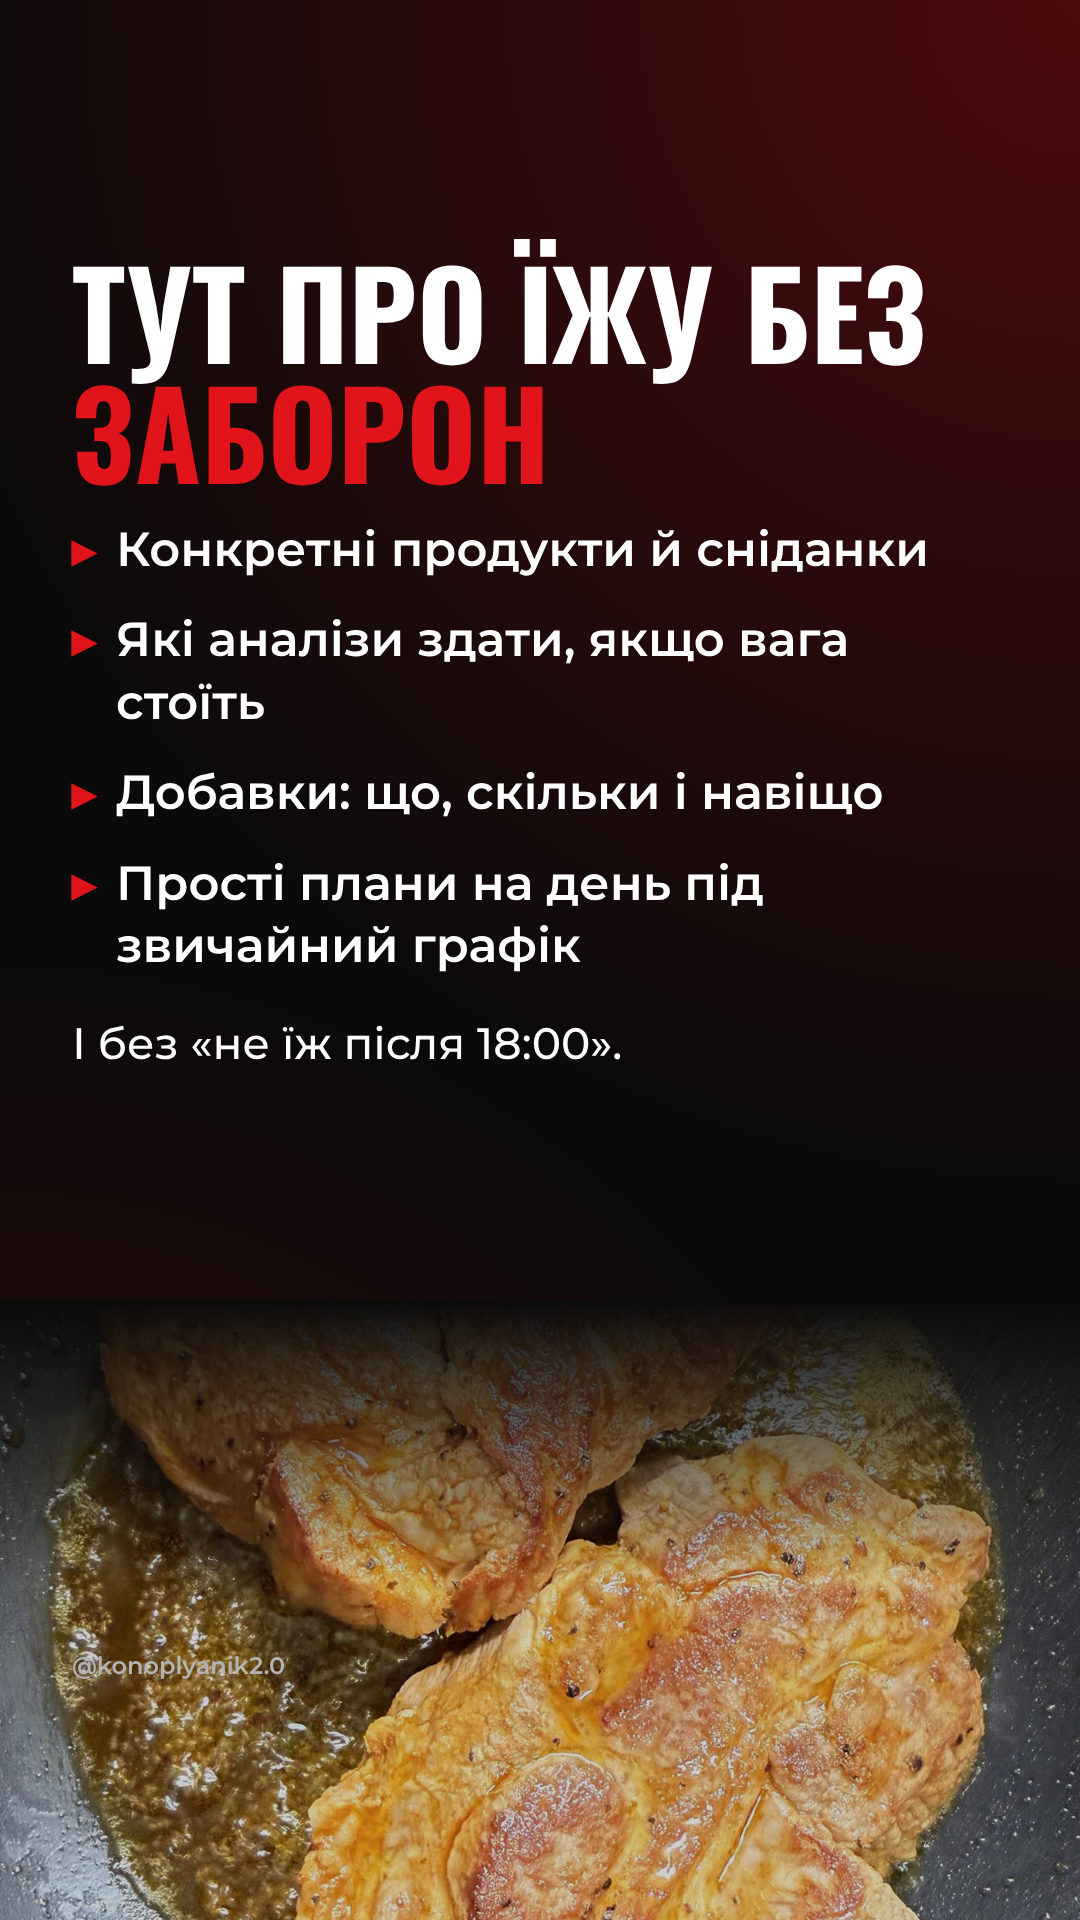
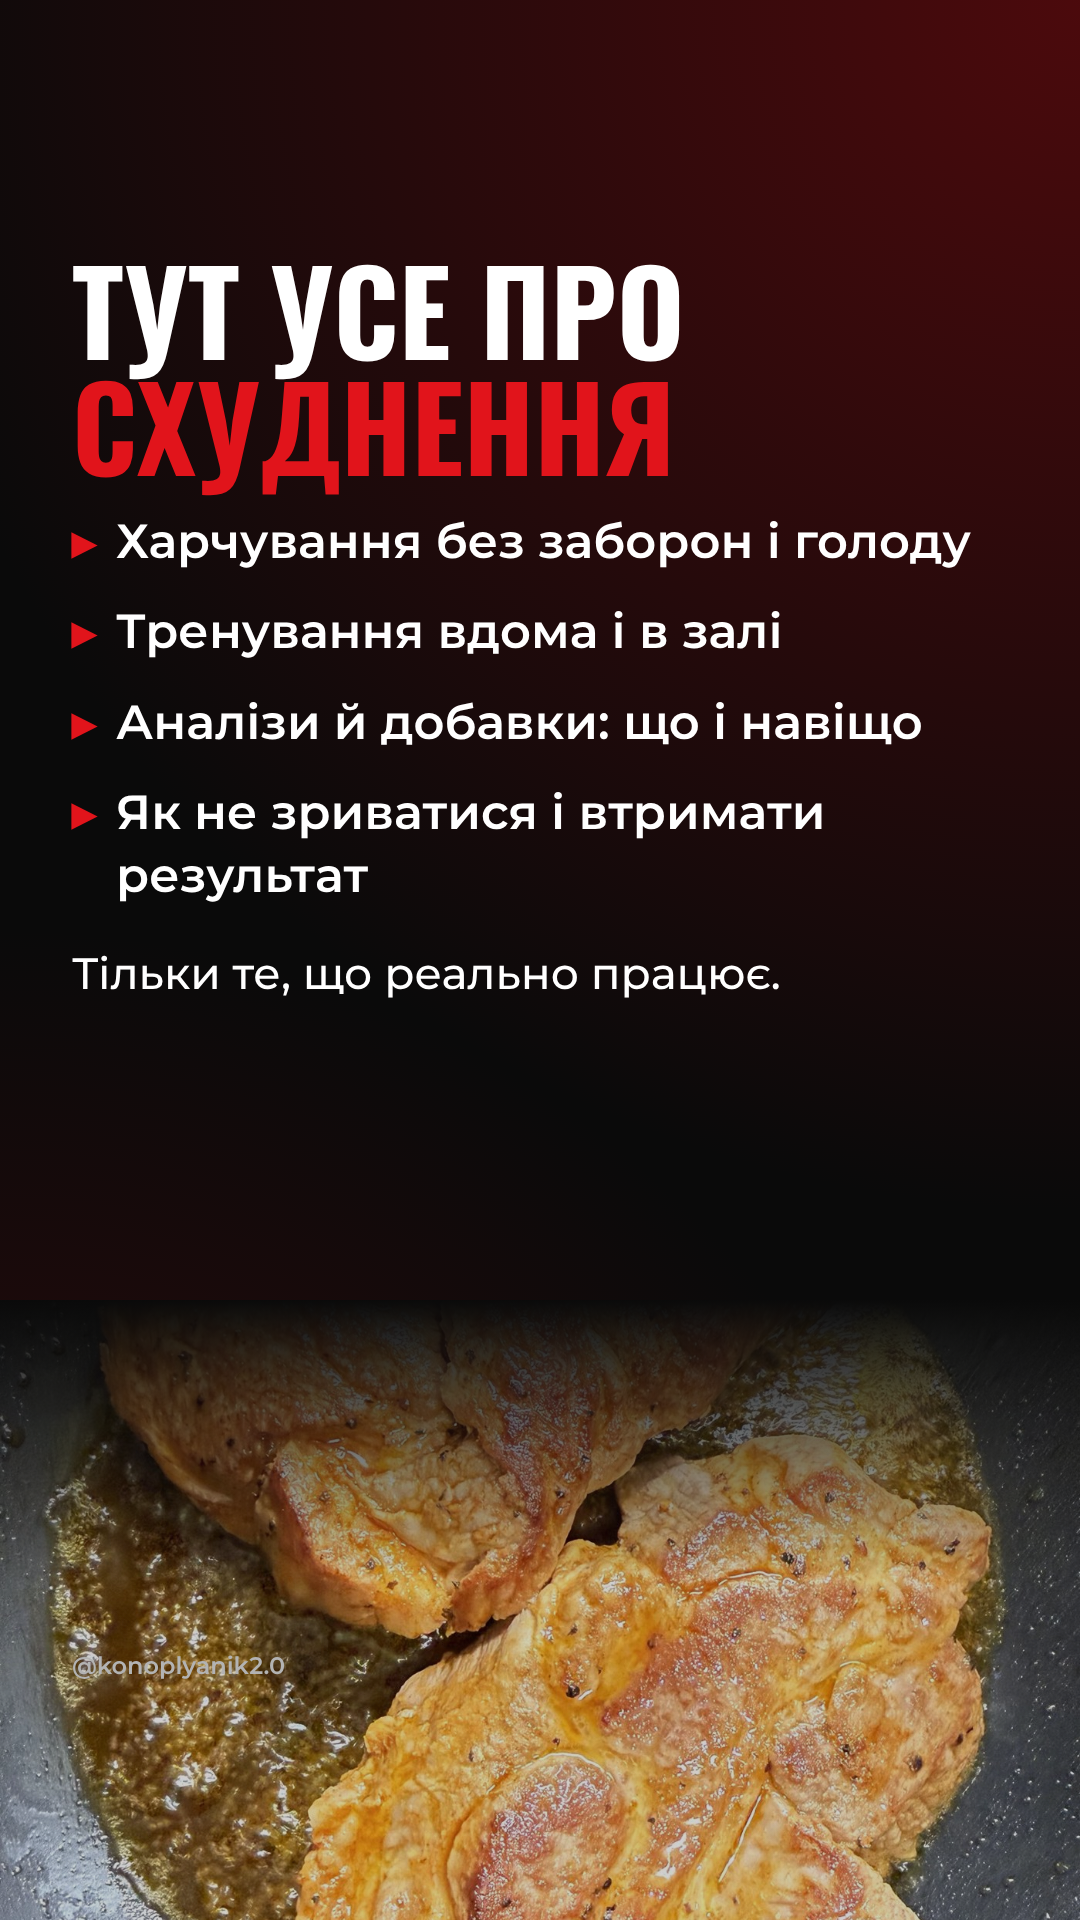
Bogdan stories 26.11: profile is about weight loss in general
Claude-Session: https://claude.ai/code/session_01AWhP1rcQ4RM4eLbmxttza6

Changed region(s): [[0.0611, 0.125, 0.8861, 0.5625]]

diff --git a/klienty/fitnes-trener-bogdan/vizual/2026-11-26-ishodnik/build.py b/klienty/fitnes-trener-bogdan/vizual/2026-11-26-ishodnik/build.py
@@ -62,7 +62,7 @@ def ST(id,inner,bg,sticker=None):
 ST('s1','<div class="wrap" style="top:250px"><h1 style="font-size:88px">ДУМАЄШ, ТРЕНЕР ЗАВЖДИ БУВ У ФОРМІ?</h1><h1 style="font-size:118px;margin-top:20px">Я ВАЖИВ <span class="r">135 КГ</span></h1><div class="body" style="font-size:40px;margin-top:20px">Зараз — на 30+ кг менше. Я Богдан.</div></div>',phb('09-svetr-cegla-znyzu-geroyichno',820,'50% 15%'))
 ST('s2','<div class="wrap" style="top:250px"><h1 style="font-size:104px">8 РОКІВ ТРЕНЕРОМ.<br><span class="r">1000+</span> КЛІЄНТІВ.</h1><div class="body" style="font-size:38px;margin-top:22px">Я тренер і кінезіотерапевт. Дивлюся не тільки на вагу, а й на те, як рухається тіло: мобільність, перекоси, затиснені м’язи.</div></div>',phb('07-svetr-cegla-vpevnena-poza-1',880,'50% 18%'))
 ST('s3','<div class="wrap" style="top:250px"><h1 style="font-size:150px">А ЦЕ <span class="r">ЛУНА</span></h1><div class="body" style="font-size:44px">Французький бульдог і частина команди. Буде на прогулянках і в роликах. Порад про їжу від неї не буде — тільки від мене.</div></div>',phb('12-lavka-chervone-hudi-z-lunoyu',700,'60% 40%'),(1420,200,'місце під стикер «Слайдер» 😍<br>«Наскільки Луна мила?»'))
-ST('s4','<div class="wrap" style="top:250px"><h1 style="font-size:120px">ТУТ ПРО ЇЖУ БЕЗ <span class="r">ЗАБОРОН</span></h1><div class="list"><div>Конкретні продукти й сніданки</div><div>Які аналізи здати, якщо вага стоїть</div><div>Добавки: що, скільки і навіщо</div><div>Прості плани на день під звичайний графік</div></div><div class="body" style="font-size:44px">І без «не їж після 18:00».</div></div>',G+'<div class="ph" style="background-image:url(11-yizha-svynyna-na-skovorodi.jpg);top:auto;height:620px;background-position:50% 40%;opacity:.9"></div><div style="position:absolute;left:0;right:0;bottom:0;height:620px;background:linear-gradient(180deg,#0A0A0A,rgba(10,10,10,.1) 45%)"></div>')
-ST('s5','<div class="wrap" style="top:250px"><h1 style="font-size:130px"><span class="r">ЗАПИТАЙ</span> ПРО ЇЖУ</h1><div class="body" style="font-size:38px;margin-top:20px">Що з’їсти на сніданок, які аналізи здати, чи потрібна добавка — пиши. Найчастіші питання розберу в сторис.</div></div>',phb('04-kurtka-cegla-ok-zhest-usmishka',760,'50% 10%'),(1480,180,'місце під стикер «Питання»<br>«Твоє питання про їжу»'))
+ST('s4','<div class="wrap" style="top:250px"><h1 style="font-size:116px">ТУТ УСЕ ПРО <span class="r">СХУДНЕННЯ</span></h1><div class="list"><div>Харчування без заборон і голоду</div><div>Тренування вдома і в залі</div><div>Аналізи й добавки: що і навіщо</div><div>Як не зриватися і втримати результат</div></div><div class="body" style="font-size:44px">Тільки те, що реально працює.</div></div>',G+'<div class="ph" style="background-image:url(11-yizha-svynyna-na-skovorodi.jpg);top:auto;height:620px;background-position:50% 40%;opacity:.9"></div><div style="position:absolute;left:0;right:0;bottom:0;height:620px;background:linear-gradient(180deg,#0A0A0A,rgba(10,10,10,.1) 45%)"></div>')
+ST('s5','<div class="wrap" style="top:250px"><h1 style="font-size:130px"><span class="r">ЗАПИТАЙ</span> МЕНЕ</h1><div class="body" style="font-size:38px;margin-top:20px">Про харчування, тренування, аналізи чи добавки — пиши будь-яке питання про схуднення. Найчастіші розберу в сторис.</div></div>',phb('04-kurtka-cegla-ok-zhest-usmishka',760,'50% 10%'),(1480,180,'місце під стикер «Питання»<br>«Твоє питання про їжу»'))
 open('p.html','w').write(CSS+''.join(h for _,h,_ in S)+'</body></html>')
 json.dump([[i,s] for i,_,s in S],open('ids.json','w'))

diff --git a/klienty/fitnes-trener-bogdan/scenarii/2026-11-26-storis-znayomsya.md b/klienty/fitnes-trener-bogdan/scenarii/2026-11-26-storis-znayomsya.md
@@ -114,3 +114,8 @@
 5. **Сторис 2: кинезиотерапия.** «Мобільність, перекоси, затиснені м'язи» — из состава онлайн-ведения (`uslugi.md`). Это не диагностика; формулировку пусть подтвердит Богдан.
 6. **Фото 09 и 07** уличные, тёплые: дизайнеру вырезать или затемнить градиентом под тёмный фон (README фото).
 7. Кто публикует сторис (в плане не закреплено).
+
+## Правка директора 26.11 (итоговые тексты С4–С5)
+Аккаунт Богдана — про всё полезное для похудения, не только еда.
+- С4: «ТУТ УСЕ ПРО СХУДНЕННЯ» ▸ Харчування без заборон і голоду ▸ Тренування вдома і в залі ▸ Аналізи й добавки: що і навіщо ▸ Як не зриватися і втримати результат. «Тільки те, що реально працює.»
+- С5: «ЗАПИТАЙ МЕНЕ» — «Про харчування, тренування, аналізи чи добавки — пиши будь-яке питання про схуднення. Найчастіші розберу в сторис.» Стикер «Питання»: «Твоє питання про схуднення».

diff --git a/klienty/fitnes-trener-bogdan/brif.md b/klienty/fitnes-trener-bogdan/brif.md
@@ -100,3 +100,4 @@
 - **Собака Богдана сейчас — Луна** (французский бульдог, фото 12–13). **Шелби больше не живёт с Богданом** (по обстоятельствам; не уточнять и не упоминать в публикациях). Во всех новых публикациях вместо Шелби — Луна. Старые цифры по роликам с Шелби — только как данные аудита (директор 26.11.2026).
 - **В каруселях не использовать «8 років» и «1000+ клієнтів»** (ни на слайдах, ни в надзаголовках) — решение директора 26.11.2026.
 - **Красные плашки-надзаголовки сверху не использовать** (в каруселях, сторис, обложках) — решение директора 26.11.2026.
+- **Аккаунт Богдана — про всё полезное для похудения** (питание, тренировки дома и в зале, анализы, добавки, как не срываться), не только про еду (директор 26.11.2026).
